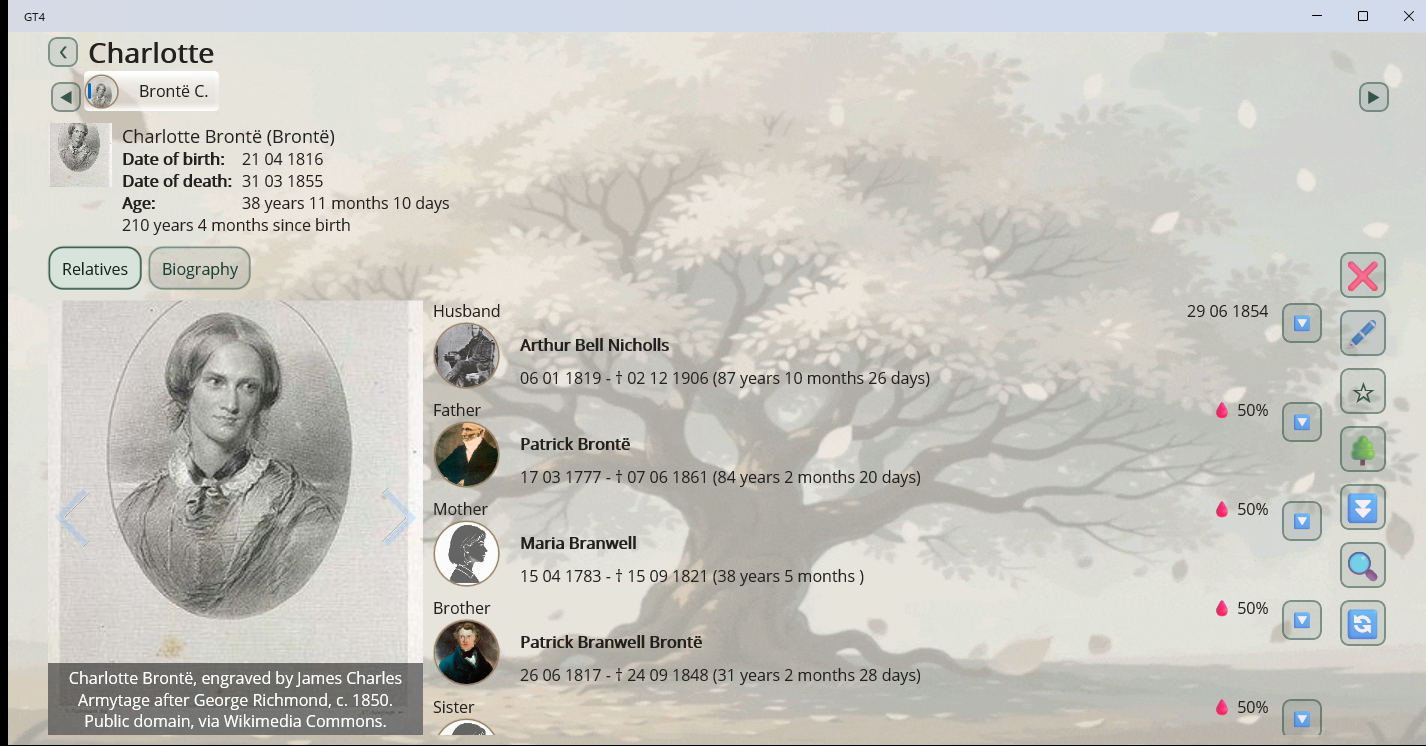
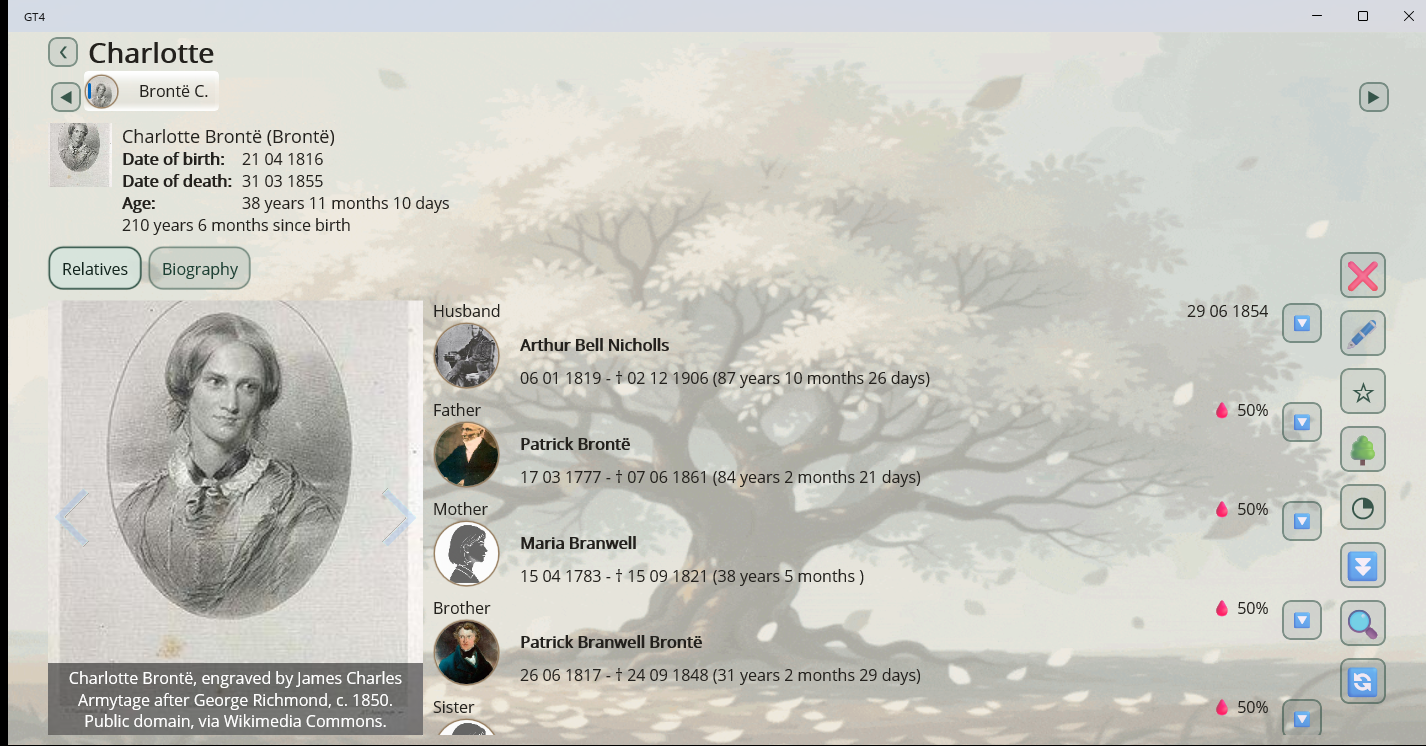
Record the November release checks and re-shoot six screenshots (#618)
(*) Record the November release checks and re-shoot six screenshots

The sideload check and WACK both passed on the 4.0.847.0 package, and
the runbook still described October's results, mandatory-update reason
and open bugs.

Five screenshots showed side menus without the fan chart or Date tools
button the new build adds; a sixth is re-shot for its header only.

(*) Name the models folder in the pasted privacy text

The November submission kept pasted policy text in Partner Center, with
the hosted page's bullet about downloaded models added. This file is the
record of that text, so it gains the same bullet.

diff --git a/doc/store/release-and-submission.md b/doc/store/release-and-submission.md
@@ -202,8 +202,16 @@ features and non-crash bug fixes, and marking every submission mandatory just
 trains the toggle to be ignored. Turn it on when a submission fixes a crash or
 a data-loss/corruption bug that shipped in a previous submission.
 
-The October 2026 release (this one, at the time of writing) qualifies, on data
-loss: PR #458 fixes #451, where a biography typed into the *create* person
+The November 2026 release (this one, at the time of writing) qualifies, on data
+loss: PR #519 fixes #510, where changing an approximate date in the date dialog
+silently dropped its "about". The dialog opened such a date with its switches
+off, so any edit saved a different date than the one the user started from.
+Checked against `v4.0.723.0` rather than assumed: its `SelectDateDialog`
+constructor has no `YearApproximate` case. The same release fixes #520 (PR
+#521), where a GEDCOM export could leave a godparent or witness pointer naming
+the wrong person; that one was not checked against the tag.
+
+The October 2026 release qualified the same way: PR #458 fixes #451, where a biography typed into the *create* person
 dialog was silently discarded on save. Checked against `v4.0.688.0` rather than
 assumed — there the dialog showed the biography editor unconditionally, but only
 built the item behind it for an existing person, so the editor had nothing to
@@ -306,35 +314,56 @@ that table together when behaviour changes.
 
 ### Open bugs at the time of this release, judged not blocking
 
-Pulled live on 2026-10-09; none touch the Windows Store build's correctness.
+Pulled live on 2026-11-14; none touch the Windows Store build's correctness.
+(#466, the flaky device test listed here in October, was closed on 2026-10-10.)
 
-- **#466** — a flaky device test (`PersonPageTests`, photo box in a very short
-  landscape window). Test-only; the workflow runs no tests anyway.
+- **#546** — `AndroidFileSystem.Move` isn't atomic, which the model cache
+  relies on. Dormant: no photo enhancement is registered on Android.
 - **#271** — `PersonInfoView` retained after in-place rebinding. Android-only,
   shipped in every earlier release.
 - **#262** — memory growth scrolling the families list one card at a time;
   partly fixed earlier, the remainder shipped in every earlier release.
 
-**The two family-tree screenshots were re-shot** against the installed
-`4.0.723.0` MSIX, since #469 replaced the layout they showed; `04`, `05` and `08`
-were compared against the same build and kept. This submission swapped the two
-new files in by hand after a `.csv`-only import; from the next release on, the
-folder import above carries all ten.
-See [listings/README.md](listings/README.md).
+**Six screenshots were re-shot** against the installed `4.0.847.0` MSIX: `02`,
+`04`, `05`, `06` and `13` because their side menus gained the fan chart or Date
+tools button, and `07` for its header. `08`, `09`, `10` and `11` were compared
+against the same build and kept. See [listings/README.md](listings/README.md)
+("November 2026 release"). (In October only the two family-tree shots were
+re-shot, against `4.0.723.0`, after #469 replaced the layout they showed.)
 
-**The sideload check passed** on 2026-10-09: `4.0.723.0` installed from the
-release's `.msix`, `Get-AppxPackage` reports PFN
-`gasizdat.GenealogyTree_25ksdz0mncfjg`, and the app launched, opened a project
-and drove the family tree.
+**The sideload check passed** on 2026-11-14: `4.0.847.0` installed from the
+release's `.msix` after removing the previous install, `Get-AppxPackage` reports
+PFN `gasizdat.GenealogyTree_25ksdz0mncfjg`, and the app launched, opened the
+demo project and drew the family tree and the fan chart. It also ran a photo
+enhancement, the first packaged build to carry one: with the Upscale model
+moved out of `.models` beforehand, the app named the model, its license and its
+size, downloaded it on a yes, and added an "(AI: upscaled ×2)" copy beside the
+source. The dev machine's `.models` folder in `%APPDATA%` already exists, so
+MSIX doesn't redirect it; empty it of the model under test, or the download is
+never exercised.
 
-**WACK passed** on the same package (kit 10.0.28000, 2026-10-09): 23 of 24 tests
-pass, overall result PASS. The one failure, *Blocked executables*, is an
+**WACK passed** on the same package (kit 10.0.28000.2957, 2026-11-14): 23 of 24
+tests pass, overall result PASS. The one failure, *Blocked executables*, is an
 optional test (`OPTIONAL="TRUE"` in the report) aimed at Windows S mode, and
 expected here. `Process.Start`/`ShellExecute` are MAUI's `Launcher`, which
 opens attachments and biography links. The "Cmd"/"reG"/"CdB"/"MSBuild" hits are
 substring matches in strings: in GT4's own resources, the Mac hotkey hint
-"Cmd + +/-/0"; the rest are inside Markdig, MAUI and WinRT. Expect the same
+"Cmd + +/-/0"; the rest are inside Markdig, MAUI and WinRT. New in November is
+one more of the same kind, "DNx" inside `onnxruntime.dll`. Expect the same
 result on every release; a new *required* failure is what to look for.
+
+WACK also runs unattended, which is how the November run was done, from an
+elevated shell:
+
+```powershell
+$appcert = 'C:\Program Files (x86)\Windows Kits\10\App Certification Kit\appcert.exe'
+& $appcert reset
+& $appcert test -appxpackagepath <full path to the .msix> -reportoutputpath <full path to a new .xml>
+```
+
+The signing certificate has to be trusted first, the previous install removed,
+and the report file must not exist yet. `OVERALL_RESULT` in the report is the
+verdict.
 
 The palette needs no inventory here any more. #358 and #360 cleared the
 last of the MAUI template colours, and what replaced them is pinned by the

diff --git a/doc/store/listings/README.md b/doc/store/listings/README.md
@@ -28,7 +28,9 @@ opened demo project, and each one's header names it ("Families | Brontë Family
 
 Nine are from a single session against the September release branch's tip;
 `06` and `13` were re-shot in October against the installed `4.0.723.0` MSIX
-(see "October 2026 release" below). Unlike
+(see "October 2026 release" below), and `02`, `04`, `05`, `06`, `07` and `13`
+in November against the installed `4.0.847.0` MSIX (see "November 2026
+release"). Unlike
 the previous set, no shot in this set displays the app version (that only ever
 appeared on the now-dropped home screen), so there's no version-pinning
 constraint on which commit they're built from.
@@ -96,6 +98,35 @@ crop.
   defaults. The README's "default name/date formats" meant removing the
   `NameFormatter.*`, `DateFormatter.*Format` and `DateSpanFormatter.*` keys
   (backed up first, restored after), not trusting a fresh install.
+
+## November 2026 release
+
+All ten were compared against the installed `4.0.847.0` MSIX, with the demo
+tree built by `RelativesCli` and the name and date format keys removed from
+`appconfig.json` for the session.
+
+- **`04-person.png`, `05-biography.png`, `06-family-tree.png` and
+  `13-family-tree-dark.png` were re-shot**, because each page's side menu gained
+  the fan chart button (◔). Same framing as before: `04` on the Armytage
+  engraving, `06` and `13` with Charlotte centred and *Relatives* on. The 🔀
+  button is dimmed in both tree shots, since nothing is arranged in this
+  project.
+- **`02-families.png` was re-shot**, because the menu gained the Date tools
+  button. Charlotte was marked as the main person first: without a mark the
+  ⭐ and 🌳 items are now disabled and dim (#499), which reads as broken in a
+  Store shot.
+- **`07-statistics.png` was re-shot though its page is unchanged**, only so its
+  header spells the project "Brontë" like the other new shots. `RelativesCli`
+  now stores the GEDCOM file's name as the project name (#610), so the name no
+  longer has to be written by hand.
+- **`08-gallery.png`, `09-kinship-finder.png`, `10-date-calendar.png` and
+  `11-settings.png` were compared and kept.** Their pages show no change. `08`
+  still says "Bronte", and `09` shows Patrick's age a day short of what the
+  app now prints, after the date-span fix in #504.
+- **`03-family.png`, the spare, was not compared.**
+- **No fan chart shot was added.** The demo tree has only two generations above
+  Charlotte, so its fan chart is six thin segments and undersells the feature.
+  A fan chart screenshot needs a deeper tree.
 
 ## Still worth fixing
 

diff --git a/doc/store/privacy-policy.md b/doc/store/privacy-policy.md
@@ -27,6 +27,10 @@ your own user account:
   own data folder while it is in use.
 - **Your settings** — language, theme, text size, date format, name display order
   — are kept in a small configuration file in the same folder.
+- **Photo enhancement models** you download are kept in a `.models` folder in
+  the same folder and reused, so each is downloaded only once. When an app
+  update replaces a model, the old file is deleted and the new one is downloaded
+  the next time you use that enhancement.
 - **Error logs**, if the app fails, are written to `GT4\CrashLogs` in your
   application data folder. They are never uploaded; they exist so you can read
   them or send them to us yourself if you choose to report a problem.
